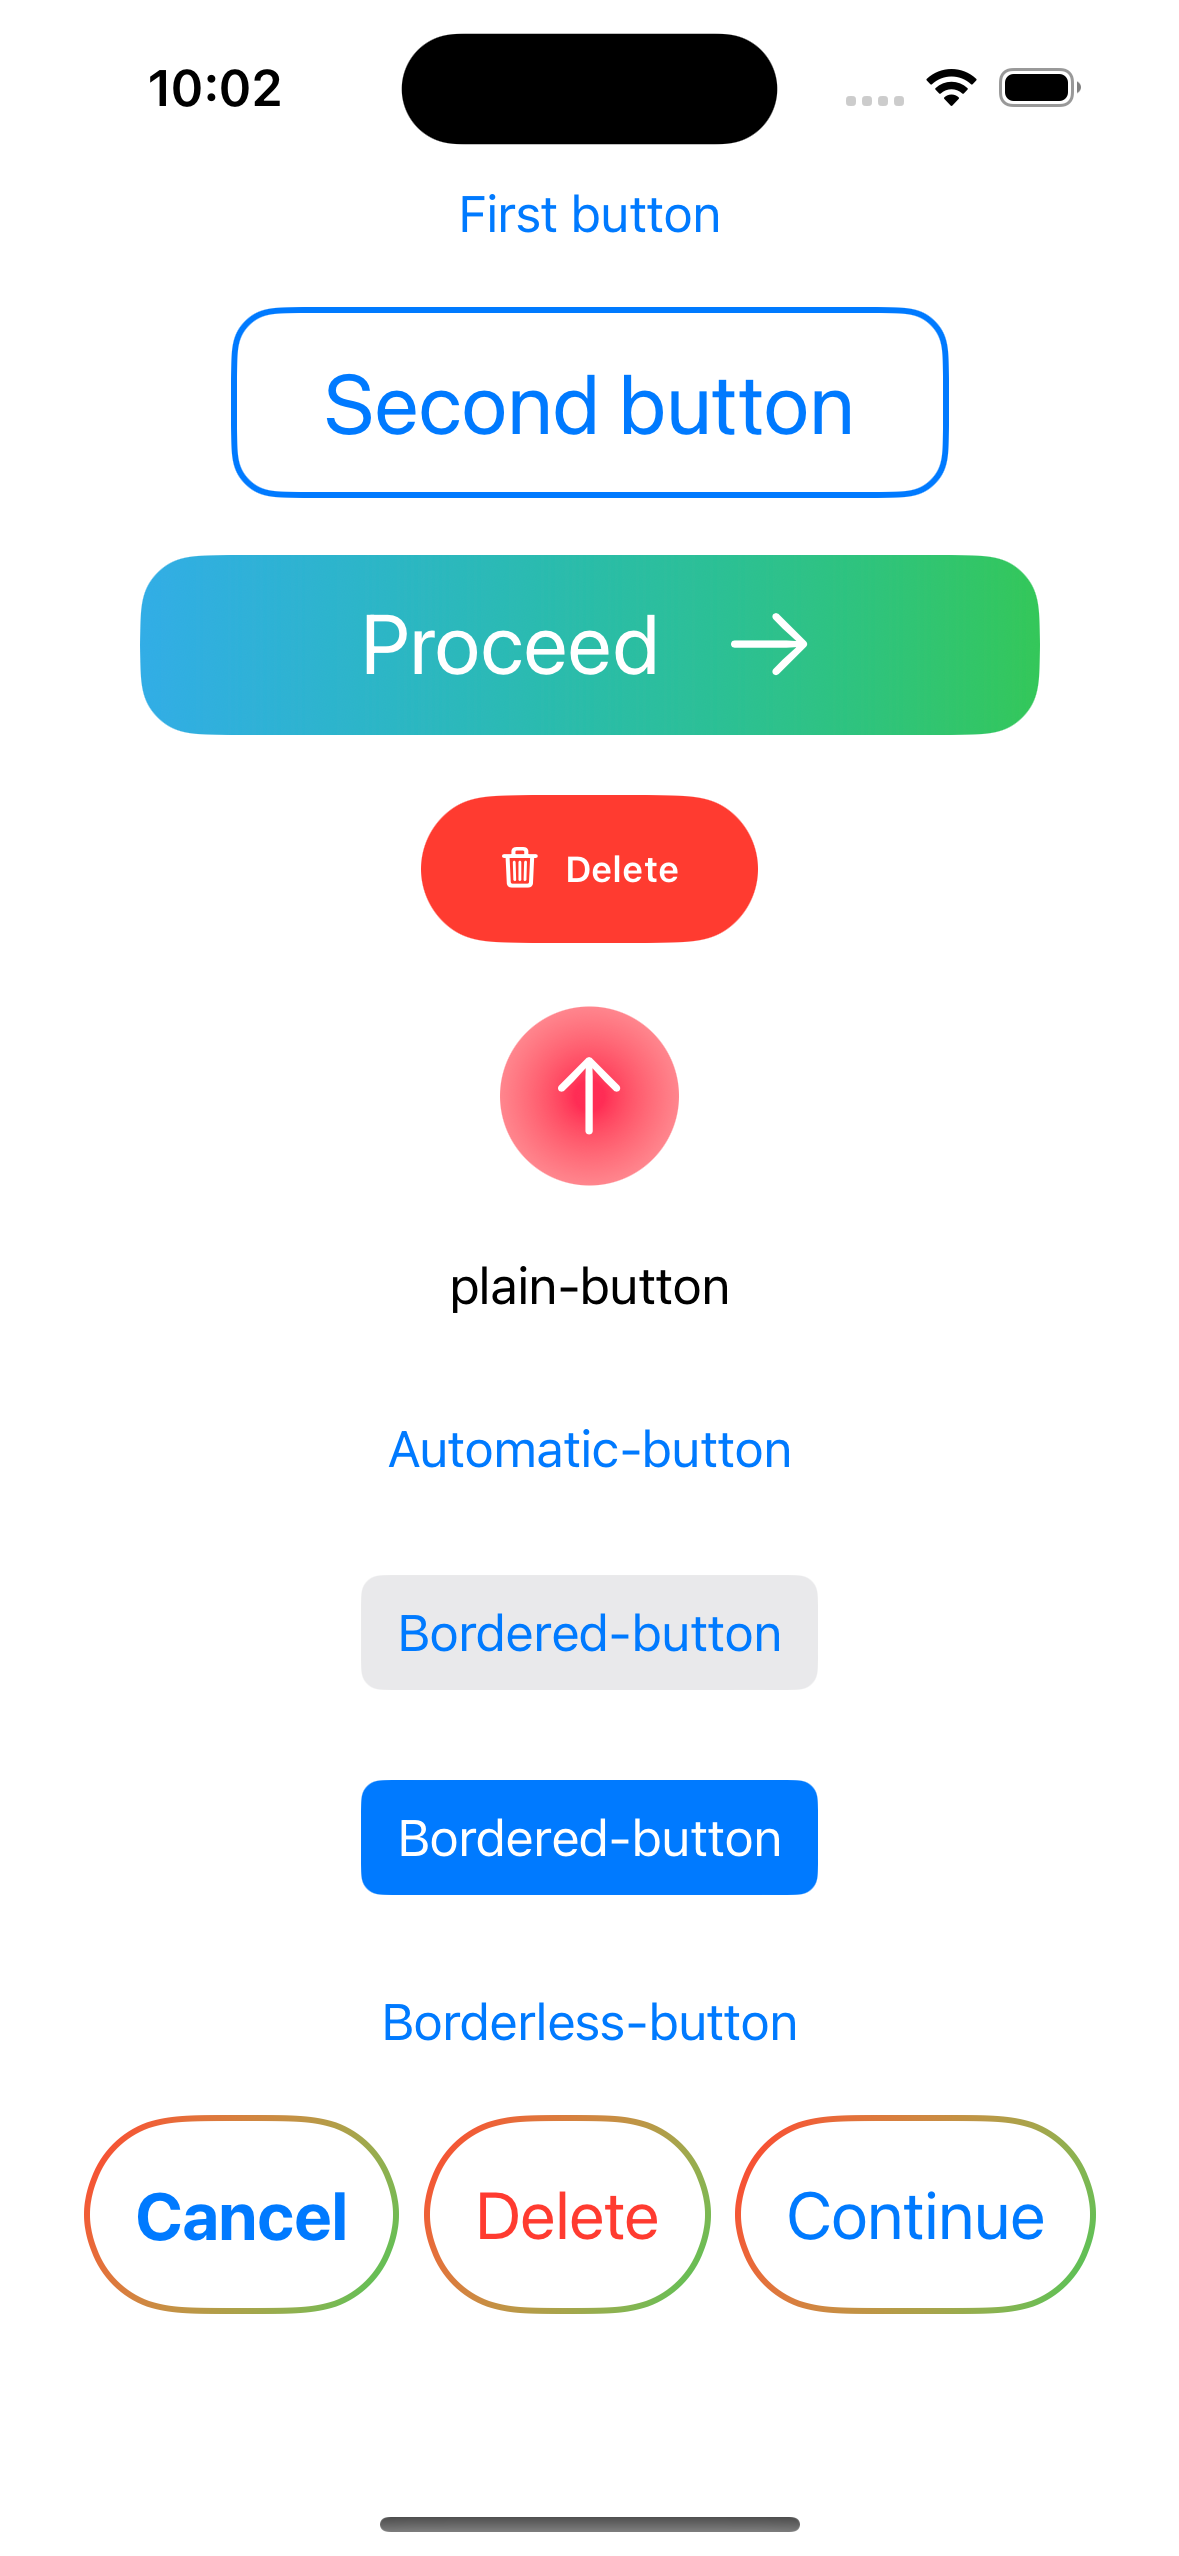
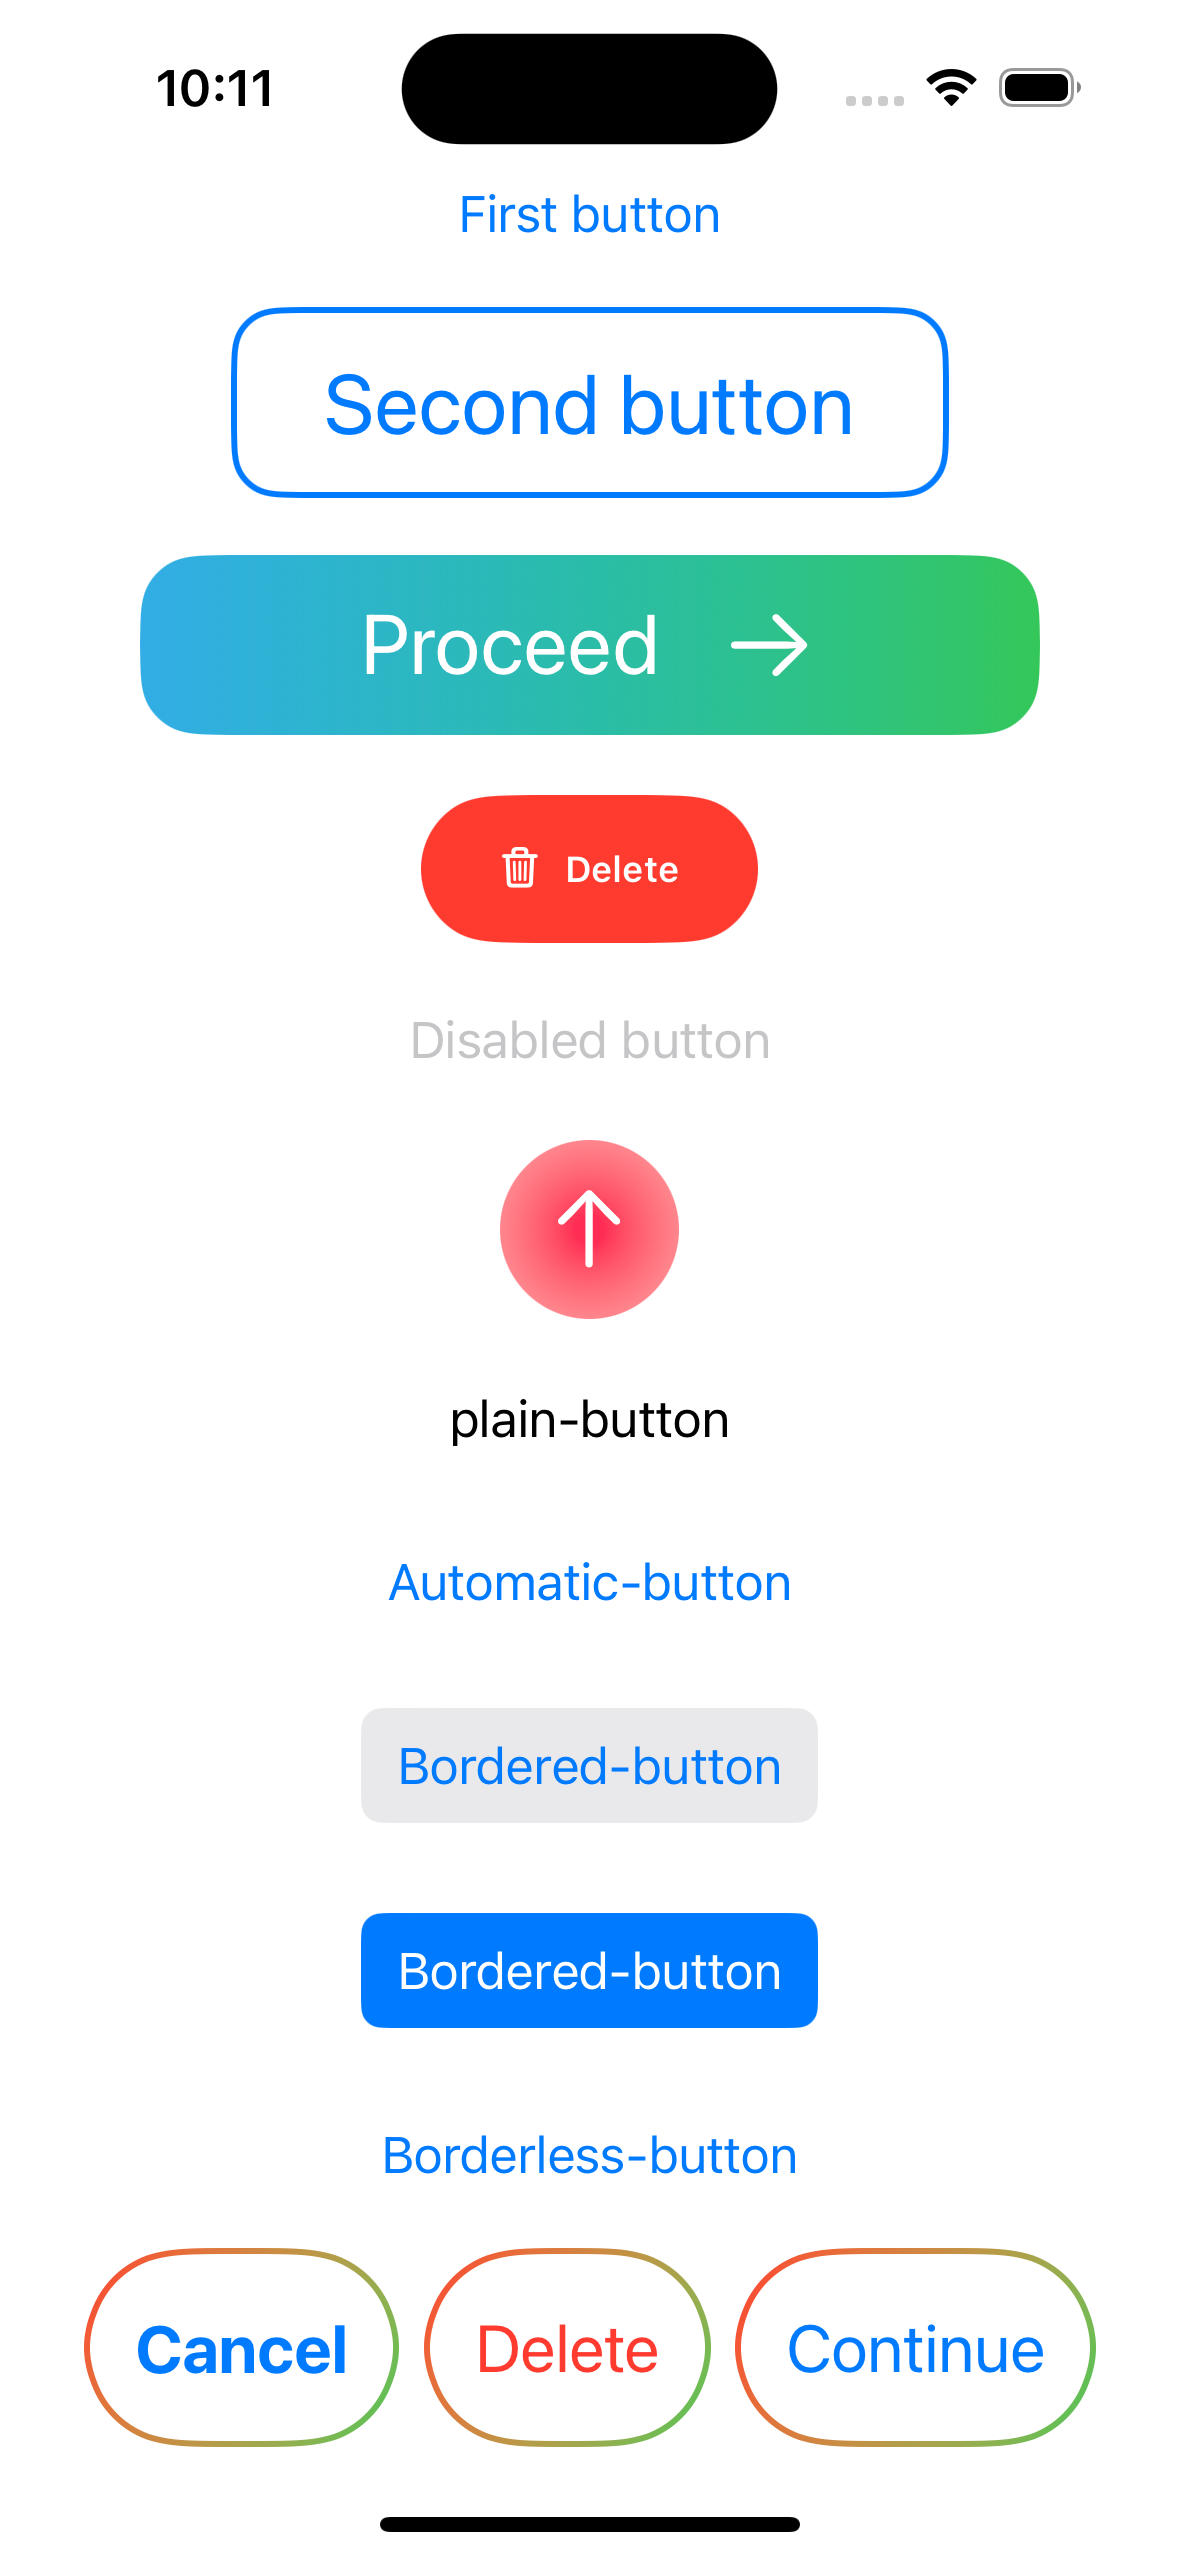
Also added example showing disabled button

diff --git a/SwiftUI-Bootcamp/BeginnerLevel/Chapter_20_Buttons/ButtonsExample.swift b/SwiftUI-Bootcamp/BeginnerLevel/Chapter_20_Buttons/ButtonsExample.swift
@@ -32,7 +32,7 @@ struct ButtonsExample: View {
                 }
                 
                 Button {
-                    
+                  // Some action
                 } label: {
                     ZStack {
                         RoundedRectangle(cornerRadius: 20)
@@ -70,6 +70,15 @@ struct ButtonsExample: View {
                     )
                 }
                 
+                // Disable button
+                Button(action: {
+                    print("Disable button can't be tapped")
+                }, label: {
+                    Text("Disabled button")
+                })
+                .disabled(true)
+
+                // Button with icon only.
                 Button("Sign In", systemImage: "arrow.up", action: {})
                     .labelStyle(.iconOnly)
                     .foregroundStyle(.white)
